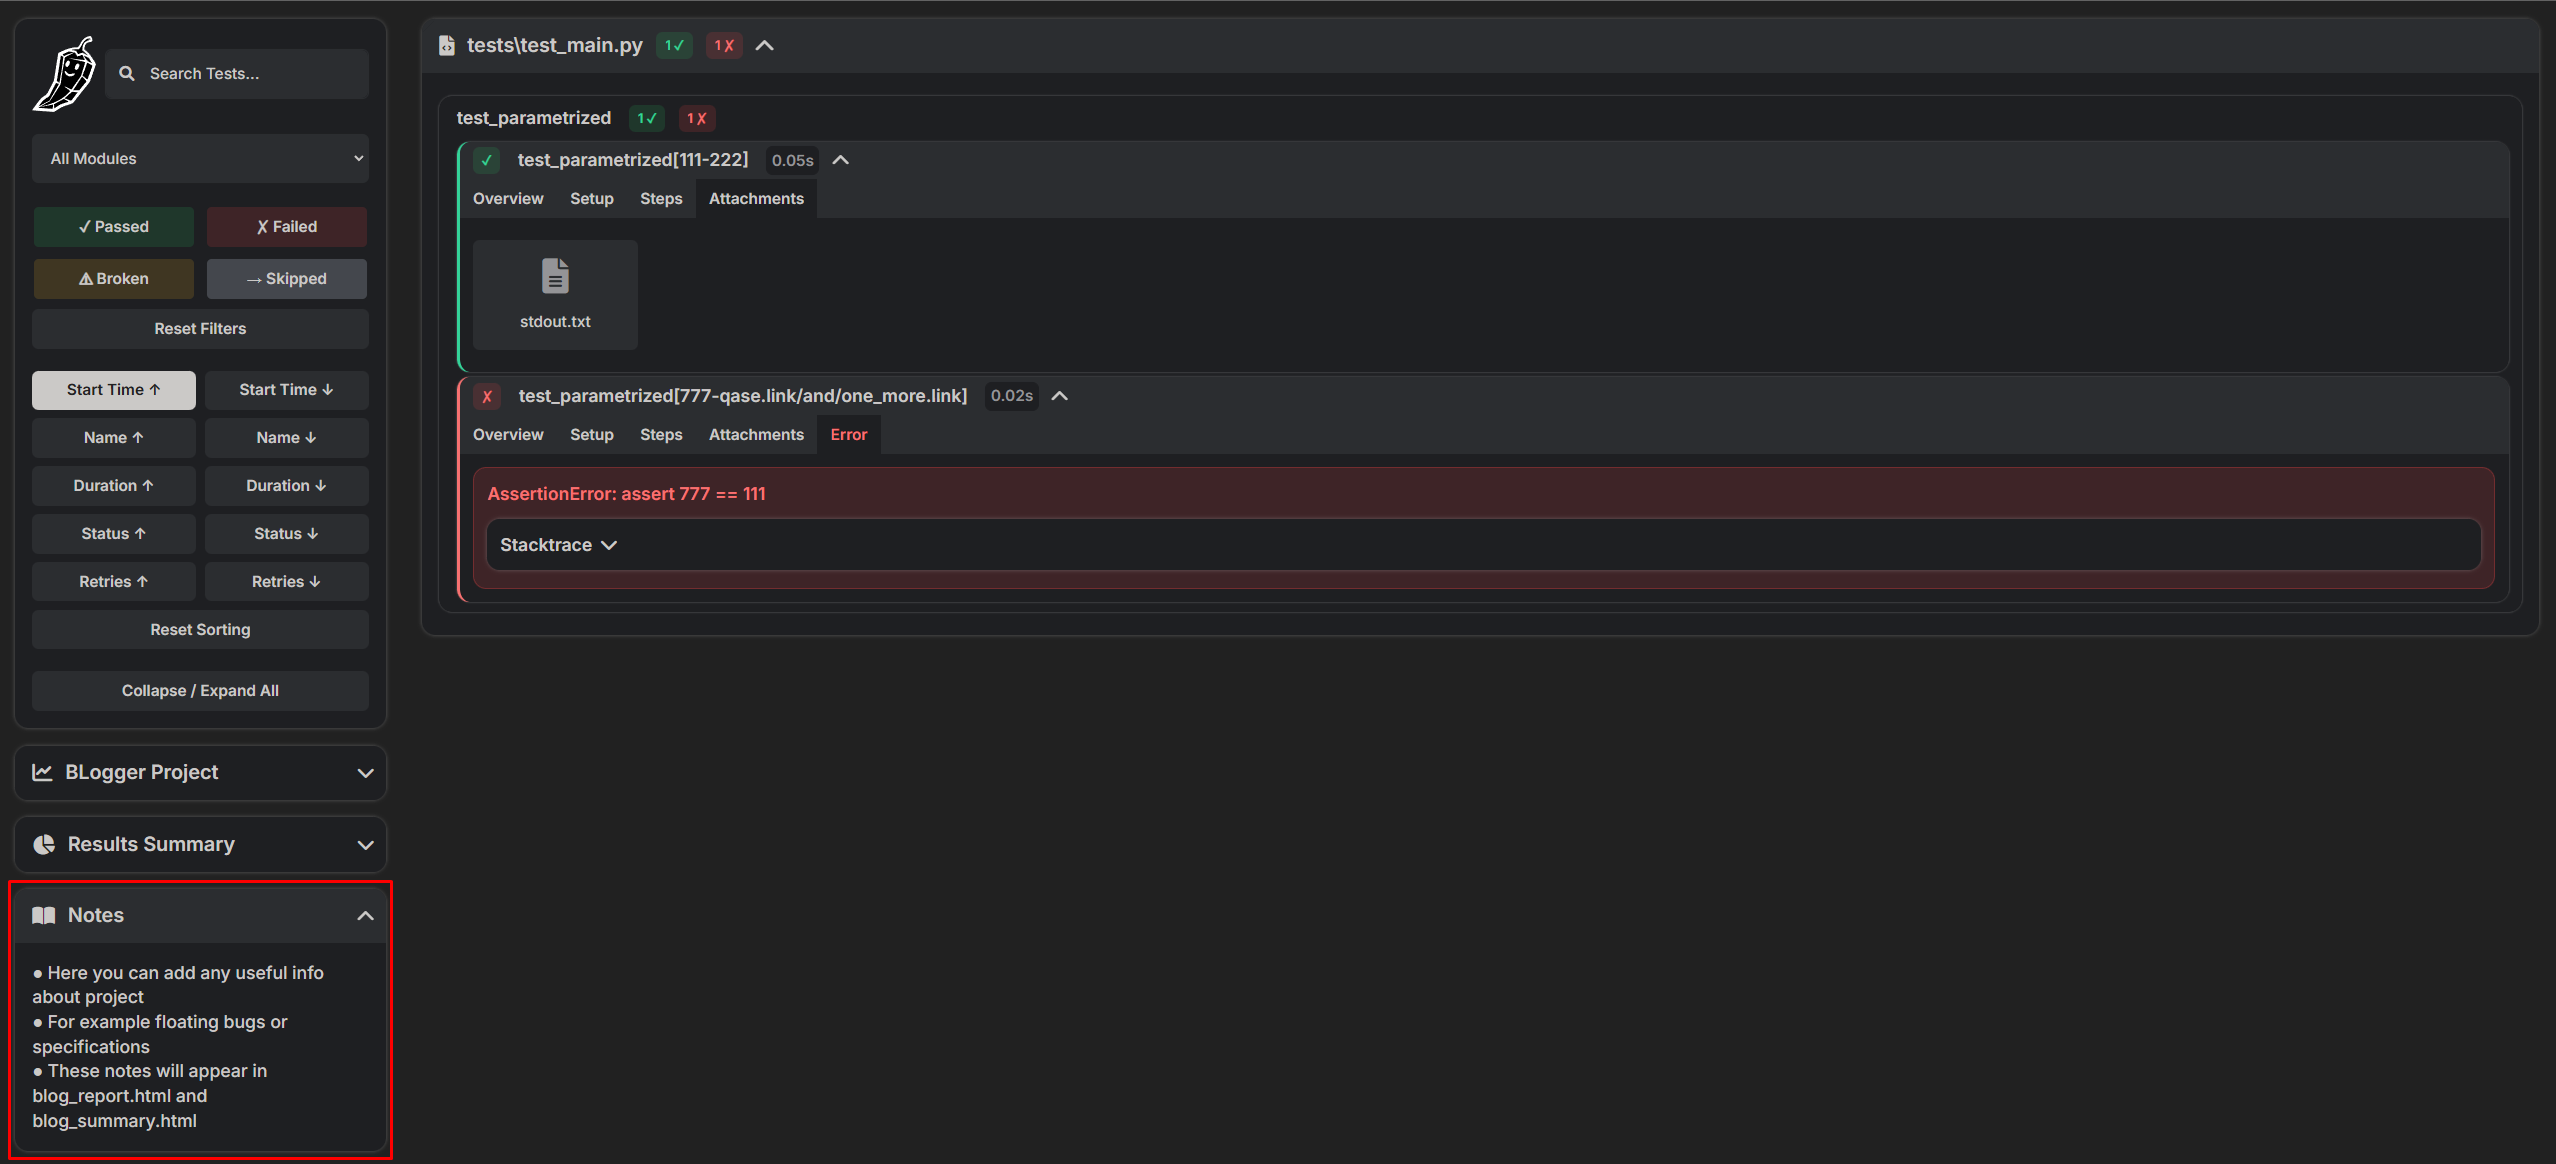
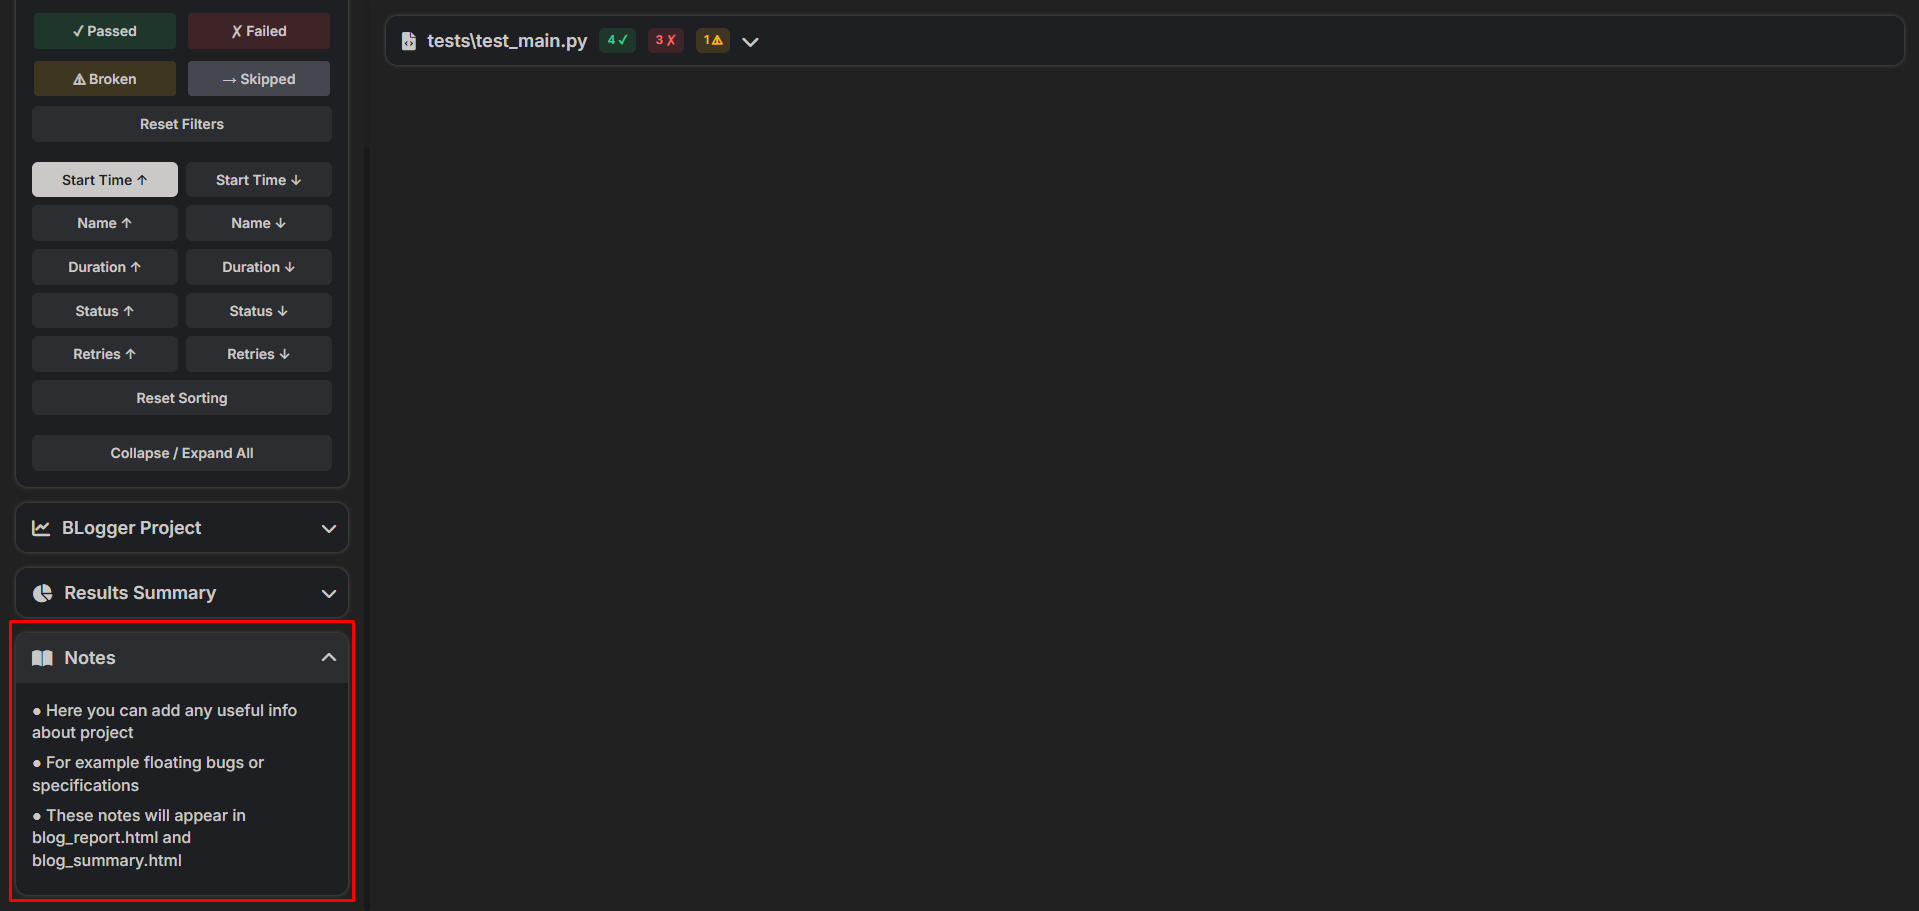
v1.2.0 (v2) gap between notes added summary failed test name fixed js css upd env and base url stored in config impl

diff --git a/b_logger/templates/scripts.js b/b_logger/templates/scripts.js
@@ -446,14 +446,14 @@ function toggleTestAndHash(header){
 
 function updateExpandedState(id,isOpen){
     let state = {};
-    try { state = loadFromStorage("expandedTests", {}); } catch {}
+    try { state = loadFromStorage("expandedBlocks", {}); } catch {}
     state[id] = isOpen;
-    saveToStorage("expandedTests", state)
+    saveToStorage("expandedBlocks", state)
 }
 
 function restoreExpandedState(){
     let state = {};
-    try { state = loadFromStorage("expandedTests", {}); } catch {}
+    try { state = loadFromStorage("expandedBlocks", {}); } catch {}
     Object.keys(state).forEach(id => {
         const el = getElById(id);
         if(!el) return;
@@ -483,7 +483,7 @@ function expandTestAndParents(el){
 function resetAllBlocks(){
     getAll(".test-content").forEach(c => toggleClass(c, "active", false));
     getAll(".test-header").forEach(h => toggleClass(h, "expanded", false));
-    sessionStorage.removeItem("expandedTests");
+    sessionStorage.removeItem("expandedBlocks");
 }
 
 // ===================== HASH HANDLING =====================

diff --git a/b_logger/templates/summary_macros.html b/b_logger/templates/summary_macros.html
@@ -132,7 +132,7 @@
             {% set known_bugs_count = run.known_bugs | length if run.known_bugs else 0 %}
             {% set retries_count = run.execution_count - 1 if run.execution_count else 0 %}
             <tr class="row {{ run.status.lower() }}">
-              <td class="name-td">{{ module_name }}<br>{{ run.name }}</td>
+              <td class="name-td">{{ module_name }}<br>----------<br>{{ run.name }}</td>
               <td class="error-td">{{ run.error.partition('Stacktrace')[0] | escape }}</td>
               <td>{{ retries_count }}</td>
               <td>{{ known_bugs_count }}</td>

diff --git a/b_logger/templates/base_macros.html b/b_logger/templates/base_macros.html
@@ -143,7 +143,7 @@
         {% if report.notes %}
             {% set notes = report.notes.notes or [] %}
             {% for note in notes %}
-                <div>
+                <div class="note">
                 ● {{ note | escape }}
                 </div>
             {% endfor %}

diff --git a/b_logger/templates/summary_template.html b/b_logger/templates/summary_template.html
@@ -34,11 +34,11 @@
         th {
           background-color: #E2E8F0;
           font-weight: bold;
-          min-width: 100px;
+          min-width: 75px;
         }
 
         td.name-td {
-            min-width: 125px;
+            min-width: 150px;
         }
 
         td.error-td {

diff --git a/b_logger/templates/styles.css b/b_logger/templates/styles.css
@@ -386,6 +386,10 @@ main::-webkit-scrollbar-thumb:hover {
 	border-color: var(--primary);
 }
 
+.sidebar .note {
+    margin-bottom: 0.5rem;
+}
+
 /* ===============================
    CARDS & SUMMARY
 ================================= */

diff --git a/b_logger/plugin.py b/b_logger/plugin.py
@@ -40,12 +40,11 @@ def pytest_configure(config):
 
     blog_config.rootpath = str(config.rootpath)
 
-    if not runtime.run_report.base_url:
-        runtime.set_base_url(config.option.blog_base_url)
-
     if not runtime.run_report.env:
-        runtime.set_env(config.option.blog_env)
+        runtime.set_env(blog_config.env)
 
+    if not runtime.run_report.base_url:
+        runtime.set_base_url(blog_config.base_url)
 
 # def pytest_unconfigure(config):
 #     try:
